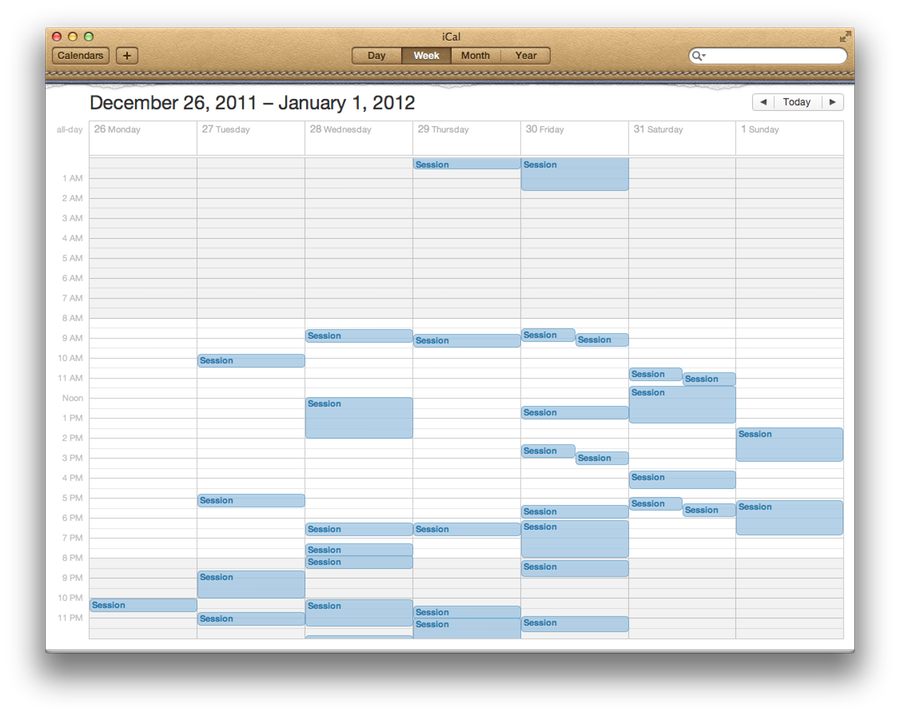
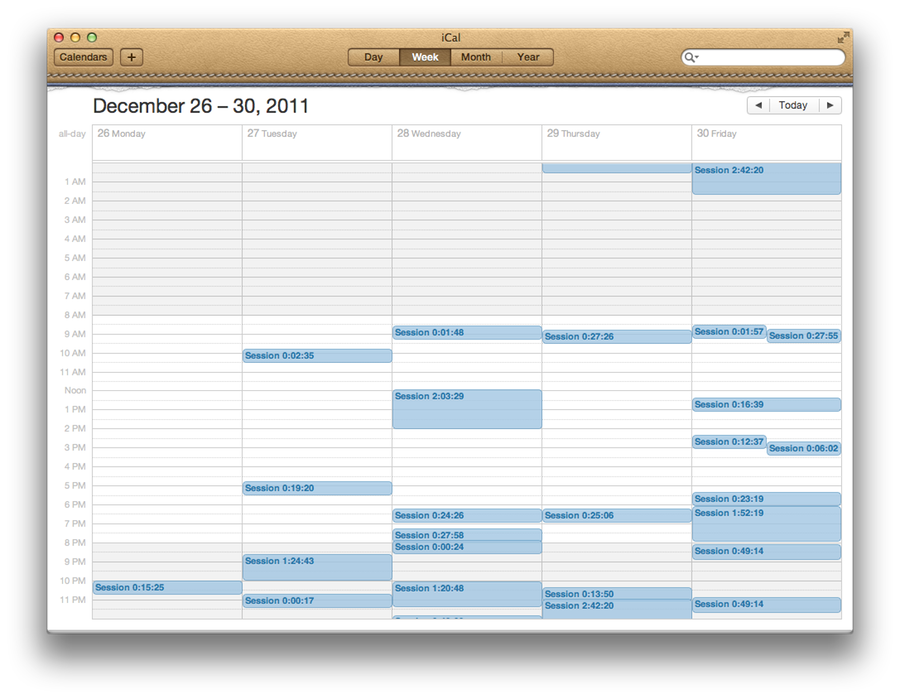
show session duration

Changed region(s): [[0.0311, 0.03, 0.9644, 0.9313], [0.2178, 0.5708, 0.28, 0.6009]]

diff --git a/pmlogs_to_ical.py b/pmlogs_to_ical.py
@@ -26,6 +26,12 @@ def datetime_from_pm_line(line):
 def formatted_datetime(dt):
     return dt.strftime("%Y%m%dT%H%M%S")
 
+def formatted_timedelta(td):
+    hours = td.seconds / (60*60)
+    minutes = (td.seconds % (60*60)) / 60
+    seconds = td.seconds % 60
+    return "%d:%02d:%02d" % (hours, minutes, seconds)
+
 class State:
     UNKNOWN, WAKE, SLEEP, READ_TIME_WAKE, READ_TIME_SLEEP = range(5)
 
@@ -42,7 +48,6 @@ for line in open(sys.argv[1]):
         if line.startswith(' * Domain: wake'):
             state = State.WAKE
             print "BEGIN:VEVENT"
-            print "SUMMARY:Session"
 
     elif state in (State.UNKNOWN, State.READ_TIME_WAKE):
         if line.startswith(' * Domain: sleep'):
@@ -59,6 +64,8 @@ for line in open(sys.argv[1]):
         if line.startswith(' - Time: '):
             state = State.READ_TIME_SLEEP
             date_stop = datetime_from_pm_line(line)
+            delta = date_stop - date_start
+            print "SUMMARY:Session %s" % formatted_timedelta(delta)
             print "DTEND:%s" % formatted_datetime(date_stop)
             print "END:VEVENT"
 
